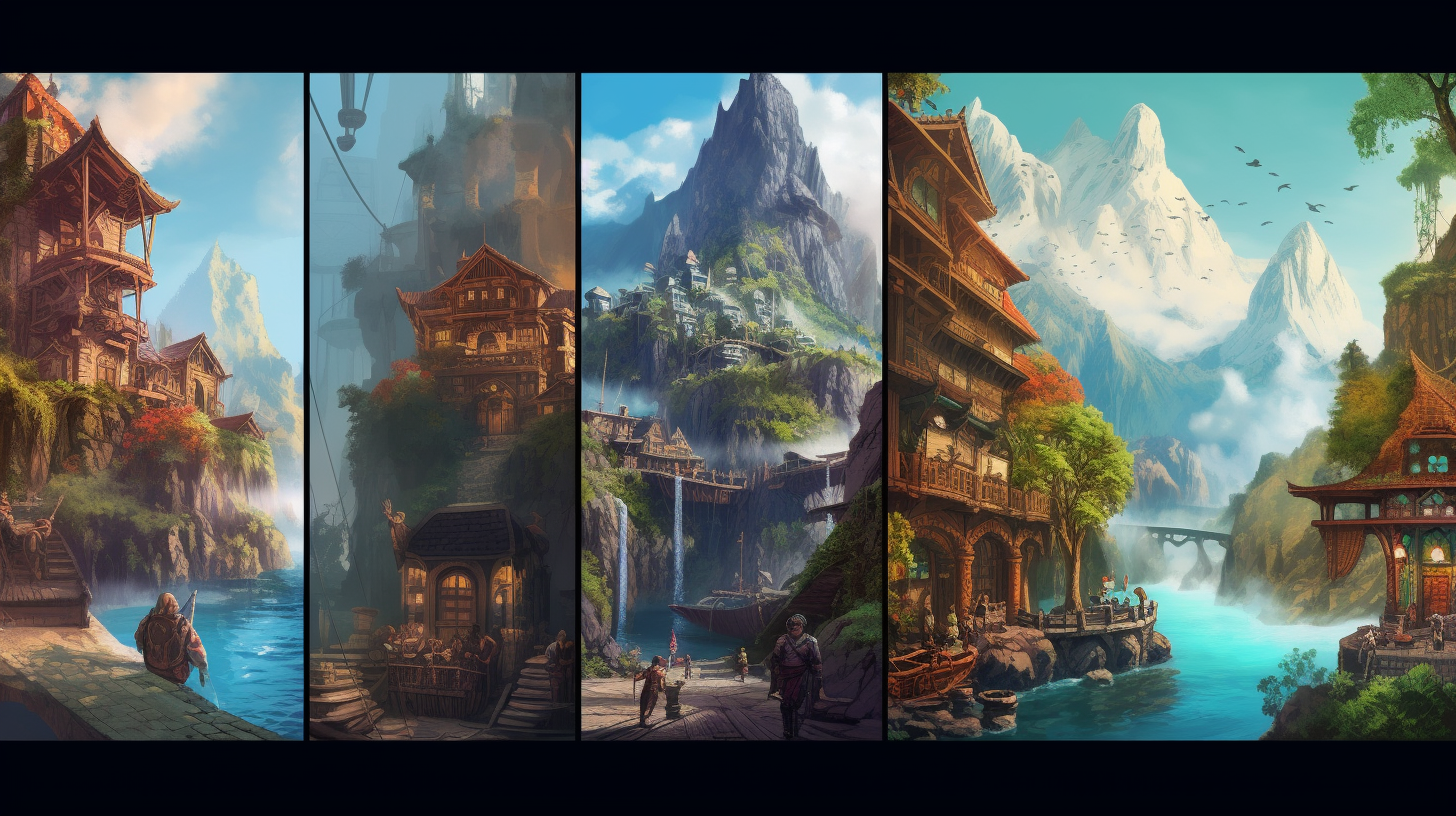
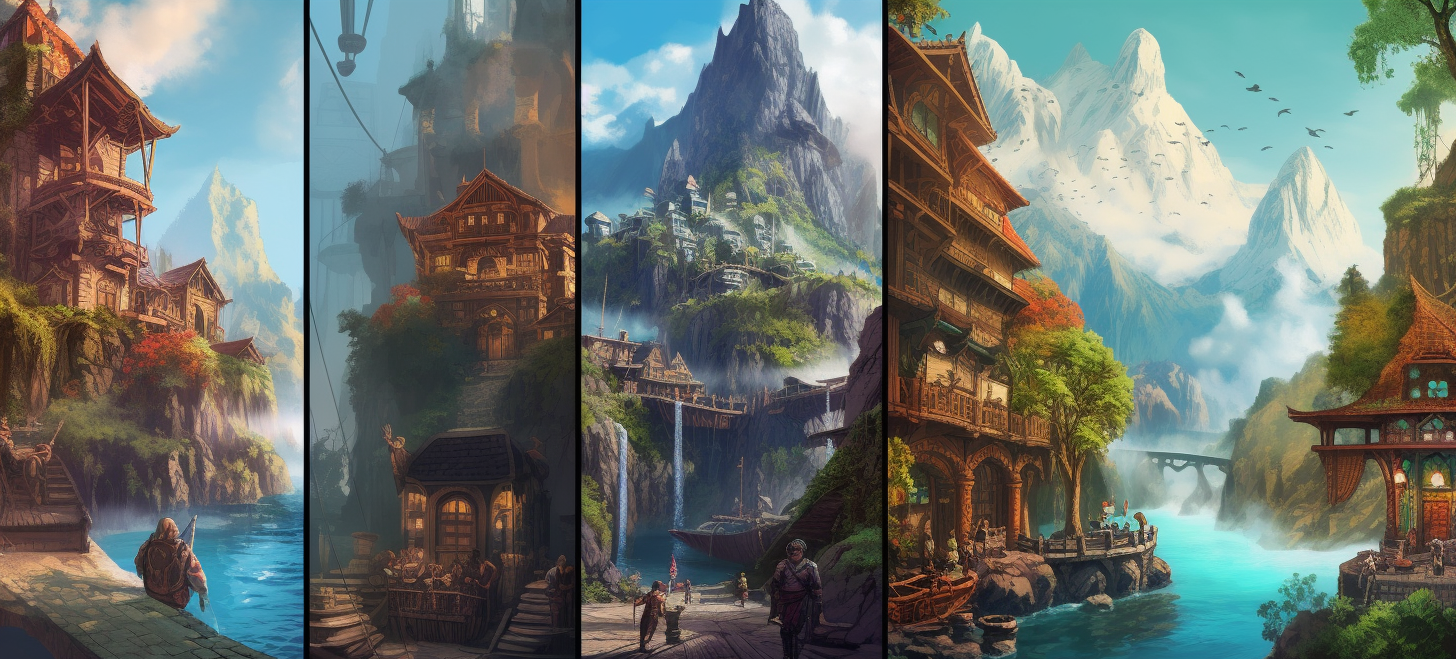
Cleanup

diff --git a/pages/embed/task-list.js b/pages/embed/task-list.js
@@ -1,10 +1,12 @@
 import { Client } from '@notionhq/client';
 import { supabase } from '@/utils/supabase-client';
+import Button from '@/components/ui/Button/Button';
+import Link from 'next/link';
 
 export default function TaskList({ impact_tasks }) {
 
   return (
-    <div className='p-6'>
+    <div className='py-6 px-10'>
       <h2 className='text-xl font-semibold mb-3'>Impact Tasks</h2>
       <div className='flex flex-col gap-3'>
         {impact_tasks ?
@@ -22,25 +24,31 @@ export default function TaskList({ impact_tasks }) {
                   : '/challenge/bonus.png'
                   })`
               }}>
-              <div className={`bg-dark bg-opacity-70 p-4 flex flex-row justify-between align-middle items-center ${task.properties.Status?.select?.name == "In Progress" ? 'ring-yellow-400 ring-2 rounded' : ''} `}>
-                <div className='w-3/5'>
+              <div className={`bg-dark bg-opacity-70 p-4 flex flex-col sm:flex-row justify-between align-middle items-center ${task.properties.Status?.select?.name == "In Progress" ? 'ring-yellow-400 ring-2 rounded' : ''} `}>
+                <div className='w-full sm:w-3/5 text-center sm:text-left'>
                   <p className="font-semibold truncate mb-1">{task.properties.Name.title[0].plain_text}</p>
                   <p className="font-normal">{task.properties["Upstream (Sum)"].formula.string}</p>
                   <p className="font-normal">{task.properties.Details.formula.string}</p>
                   {/* <p className="font-normal">{task.properties.Priority?.select?.name}</p> */}
                 </div>
-                <div className='w-0.5 bg-white opacity-60 h-20 rounded'></div>
+                <div className='w-3/4 sm:w-0.5 m-4 bg-white opacity-60 h-0.5 sm:h-20 rounded'></div>
                 <div className='text-center'>
                   <p className="font-normal">{task.properties.Punctuality.formula.string}</p>
-                  <p className="text-xs mt-3 mx-auto">
-                    <span className="text-xs mx-auto font-semibold py-1 px-2 uppercase rounded text-emerald-600 bg-emerald-200">
+                  <p className="text-xs mt-3 mx-auto font-semibold py-1 px-2 uppercase rounded text-emerald-600 bg-emerald-200">
                       {task.properties.Reward.formula.string}
-                    </span>
                   </p>
                 </div>
               </div>
             </a>
-          )) : null}
+          )) : 
+          <a href="/missions" target="_blank">
+            <Button
+              className="mr-auto"
+              variant="prominent"
+            >
+              Pick Up A Mission
+            </Button>
+          </a>}
       </div>
     </div>
   );
@@ -54,7 +62,7 @@ export async function getServerSideProps({ req }) {
     if (!user) {
       return {
         redirect: {
-          destination: '/signin?redirect=player',
+          destination: '/signin?redirect=task-list',
           permanent: false
         }
       };

diff --git a/pages/missions.js b/pages/missions.js
@@ -208,7 +208,7 @@ export default function Missions({ metaBase, setMeta, refreshChildStats, setRefr
                         Mission Board
                       </div>
                       <button
-                        className="p-1 ml-auto bg-transparent border-0 float-right text-xl my-auto leading-none font-semibold outline-none focus:outline-none"
+                        className="p-1 ml-auto bg-transparent border-0 float-right text-xl my-auto leading-none font-semibold outline-none focus:outline-none hideLinkBorder"
                         onClick={() => loadAndRefresh()}
                         disabled={loading}
                         loading={loading}
@@ -279,7 +279,7 @@ export default function Missions({ metaBase, setMeta, refreshChildStats, setRefr
                       <div className="grid grid-cols-3 gap-2 p-2 bg-white text-white shadow-lg rounded border">
                         {tasks ?
                           tasks.results.map((task) => (
-                            <a href={changeUrl(task.url)} target="_blank" className='p-4 border rounded bg-black bg-opacity-80 text-center hover:bg-gray-100 hover:text-black cursor-pointer hideLinkBorder'>
+                            <a href={changeUrl(task.url)} target="_blank" className='p-4 rounded bg-black bg-opacity-80 text-center hover:bg-white hover:text-black hover:scale-105 transition duration-500 ease-out transform cursor-pointer hideLinkBorder'>
                               <p className="font-semibold truncate mb-1">{task.properties.Name.title[0].plain_text}</p>
                               <p className="font-normal">{task.properties["Upstream (Sum)"].formula.string}</p>
                               {/* <p className="font-normal">{task.properties.Status?.select?.name}</p> */}
@@ -322,7 +322,7 @@ export async function getServerSideProps({ req }) {
     if (!user) {
       return {
         redirect: {
-          destination: '/signin?redirect=player',
+          destination: '/signin?redirect=missions',
           permanent: false
         }
       };

diff --git a/components/Modals/ModalTasks.js b/components/Modals/ModalTasks.js
@@ -25,7 +25,7 @@ export default function ModalTasks({ visibility, setVisibility, mobileDevice, us
               <div>
               </div>
               <div className="flex flex-row items-center">
-                  <button onClick={() => setOpacity()} className="fas fa-sun mt-3 w-full inline-flex justify-center rounded-md border border-gray-300 shadow-sm px-4 py-2 bg-white font-medium text-gray-700 hover:bg-gray-50 focus:outline-none focus:ring-2 focus:ring-offset-2 focus:ring-indigo-500 sm:mt-0 sm:ml-3 sm:w-auto sm:text-sm">{opacity}</button>
+                  <button onClick={() => setOpacity()} className="fas fa-sun mt-3 w-full inline-flex justify-center rounded-md border border-gray-300 shadow-sm px-4 py-2 bg-white font-medium text-gray-700 hover:bg-gray-50 focus:outline-none focus:ring-2 focus:ring-offset-2 focus:ring-indigo-500 sm:mt-0 sm:ml-3 sm:w-auto sm:text-sm"> - {opacity}</button>
                 <div className={`${mobileDevice ? 'hidden' : ''}`}>
 
                   <button type="button" onClick={() => setSize('small')} className="fas fa-mobile-alt mt-3 w-full inline-flex justify-center rounded-md border border-gray-300 shadow-sm px-4 py-2 bg-white font-medium text-gray-700 hover:bg-gray-50 focus:outline-none focus:ring-2 focus:ring-offset-2 focus:ring-indigo-500 sm:mt-0 sm:ml-3 sm:w-auto sm:text-sm" />

diff --git a/pages/signin.js b/pages/signin.js
@@ -471,7 +471,7 @@ const SignIn = ({ user, metaBase, setMeta }) => {
                   <span className="pt-1 text-center text-sm">
                     <span className="text-accents-7">Don't have an account?</span>
                     {` `}
-                    <a className="text-accent-9 font-bold hover:underline cursor-pointer" onClick={() => setSignType('signup')}>
+                    <a className="text-accent-9 font-bold hover:underline cursor-pointer hideLinkBorder" onClick={() => setSignType('signup')}>
                       Sign up.
                     </a>
                   </span>
@@ -546,7 +546,7 @@ const SignIn = ({ user, metaBase, setMeta }) => {
                   <span className="pt-1 text-center text-sm">
                     <span className="text-accents-7">Do you have an account?</span>
                     {` `}
-                    <a className="text-accent-9 font-bold hover:underline cursor-pointer" onClick={() => setSignType('signin')}>
+                    <a className="text-accent-9 font-bold hover:underline cursor-pointer hideLinkBorder" onClick={() => setSignType('signin')}>
                       Sign in.
                     </a>
                   </span>
